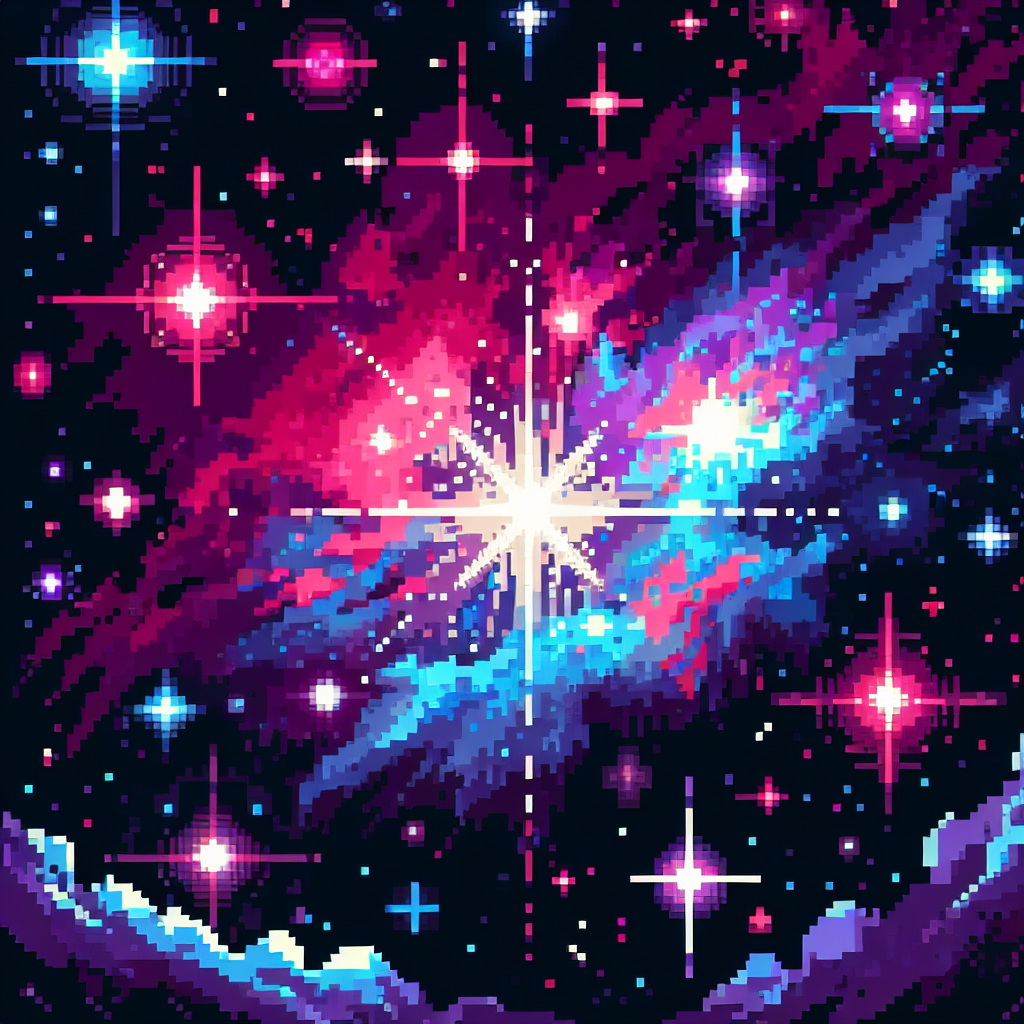
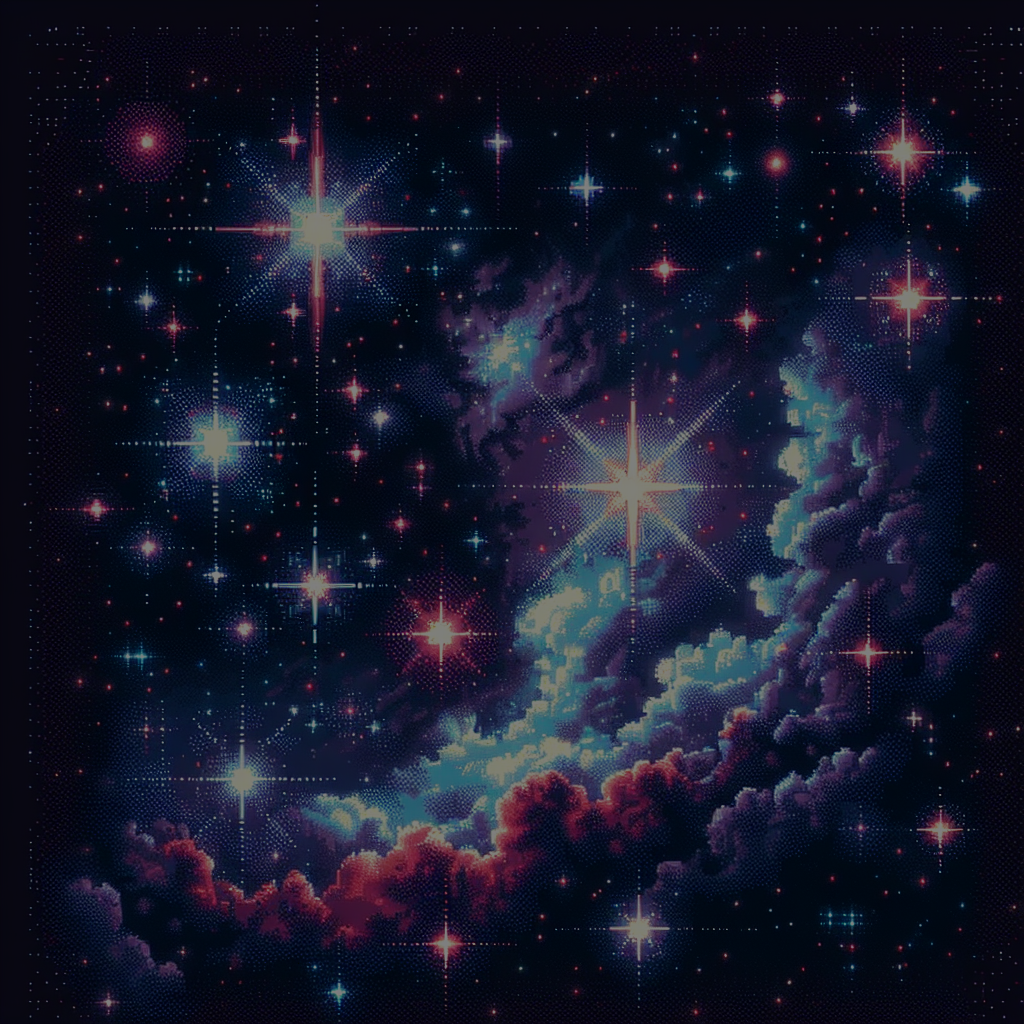
home page + fixed background

diff --git a/classes/tiles.py b/classes/tiles.py
@@ -1,25 +1,30 @@
 import pygame
-
+import environment.get_environments 
 class Tiles:
     def __init__(self, width, height):
         print(width, height)
         # Load 9 images (1024x1024 each) from file paths
-        image_paths = [f"background_{i}.png" for i in range(9)]
+        # image_paths = [environment.get_environments.get_background(i) for i in range(9)]
+        # image_paths = [f"background_{i}.png" for i in range(9)]
         
         # Convert image paths to pygame surfaces
-        images = [pygame.image.load(image_path) for image_path in image_paths]
+        # images = [pygame.image.load(image_path) for image_path in image_paths]
         
         # Check the sizes of the images to ensure they are 1024x1024
-        for i, img in enumerate(images):
-            if img.get_size() != (1024, 1024):
-                raise ValueError(f"Image {image_paths[i]} is not 1024x1024! Got {img.get_size()} instead.")
+        # for i, img in enumerate(images):
+        #     if img.get_size() != (1024, 1024):
+        #         raise ValueError(f"Image {image_paths[i]} is not 1024x1024! Got {img.get_size()} instead.")
         
         # Create a surface to combine the 9 images into a 3x3 grid (3072x3072 total)
         self.combined_image = pygame.Surface((1024 * 3, 1024 * 3))
 
         
         # Blit the 9 images into the combined image at their correct positions
-        for i, img in enumerate(images):
+        for i in range(9):
+            # img = environment.get_environments.get_background(i)
+            img = pygame.image.load(f"background_{i+1}.png")
+            # img = pygame.image.load(img) 
+
             row = i // 3  # Determine the row in the 3x3 grid
             col = i % 3   # Determine the column in the 3x3 grid
             print(f"Blitting image {i} at position {(col * 1024, row * 1024)}")  # Debug print for blit positions
@@ -55,3 +60,70 @@ class Tiles:
                 # Get the appropriate tile from the combined image
                 tile = self.get_tile(tile_row, tile_col)
                 screen.blit(tile, (col_idx * TILE_SIZE - offset_x, row_idx * TILE_SIZE - offset_y))
+
+# import pygame
+# import environment.get_environments 
+# import pygame
+# import environment.get_environments
+# import random  # Import random module to shuffle tiles
+
+# class Tiles:
+#     def __init__(self, width, height):
+#         print(width, height)
+#         # Load 9 images (1024x1024 each) from file paths
+#         # image_paths = [environment.get_environments.get_background(i) for i in range(9)]
+#         image_paths = [f"background_{i}.png" for i in range(9)]
+#         # Convert image paths to pygame surfaces
+#         images = [pygame.image.load(image_path) for image_path in image_paths]
+        
+#         # Check the sizes of the images to ensure they are 1024x1024
+#         for i, img in enumerate(images):
+#             if img.get_size() != (1024, 1024):
+#                 raise ValueError(f"Image {image_paths[i]} is not 1024x1024! Got {img.get_size()} instead.")
+        
+#         # Create a surface to combine the 9 images into a 3x3 grid (3072x3072 total)
+#         self.combined_image = pygame.Surface((1024 * 3, 1024 * 3))
+
+#         # Blit the 9 images into the combined image at their correct positions
+#         for i, img in enumerate(images):
+#             row = i // 3  # Determine the row in the 3x3 grid
+#             col = i % 3   # Determine the column in the 3x3 grid
+#             print(f"Blitting image {i} at position {(col * 1024, row * 1024)}")  # Debug print for blit positions
+#             self.combined_image.blit(img, (col * 1024, row * 1024))  # Blit image to its place in the 3x3 grid
+
+#         self.tile_width = 32
+#         self.tiles_per_image_row = (1024 * 3) // self.tile_width  # Number of tiles per row in the 3072x3072 image
+
+#         # Generate a list of tile IDs and shuffle them to randomize the order
+#         tile_ids = list(range(self.tiles_per_image_row * (height // self.tile_width)))
+#         random.shuffle(tile_ids)  # Shuffle tile IDs to randomize the order
+
+#         # Create the tilemap by filling it with randomized tile IDs
+#         self.tilemap = []
+#         tile_id_index = 0
+#         for row in range(height // self.tile_width):
+#             self.tilemap.append([])
+#             for col in range(width // self.tile_width):
+#                 self.tilemap[row].append(tile_ids[tile_id_index])
+#                 tile_id_index += 1
+
+#         pygame.image.save(self.combined_image, "combined_image_debug.png")
+
+#     def get_tile(self, row, col):
+#         TILE_SIZE = self.tile_width
+#         tile = pygame.Surface((TILE_SIZE, TILE_SIZE))
+#         tile.blit(self.combined_image, (0, 0), (col * TILE_SIZE, row * TILE_SIZE, TILE_SIZE, TILE_SIZE))
+#         return tile
+
+#     def draw_tiles(self, screen, offset_x, offset_y):
+#         TILE_SIZE = self.tile_width
+#         for row_idx, row in enumerate(self.tilemap):
+#             for col_idx, tile_id in enumerate(row):
+#                 # Determine the tile position within the combined image
+#                 tile_row = tile_id // self.tiles_per_image_row
+#                 tile_col = tile_id % self.tiles_per_image_row
+                
+#                 # Get the appropriate tile from the combined image
+#                 tile = self.get_tile(tile_row, tile_col)
+#                 screen.blit(tile, (col_idx * TILE_SIZE - offset_x, row_idx * TILE_SIZE - offset_y))
+

diff --git a/main.py b/main.py
@@ -14,6 +14,44 @@ from classes.inventory import Inventory
 from classes.items import Shard
 from classes.crafter import Crafter
 from classes.planet import * 
+
+def home_screen():
+    # Load title font and button font
+    title_font = pygame.font.Font(None, 100)
+    button_font = pygame.font.Font(None, 50)
+    
+    # Create text surfaces
+    title_text = title_font.render("Wizard Game", True, (255, 255, 255))
+    start_text = button_font.render("Start Game", True, (255, 255, 255))
+    exit_text = button_font.render("Exit", True, (255, 255, 255))
+    
+    # Define button rectangles
+    start_button = start_text.get_rect(center=(WIDTH // 2, HEIGHT // 2 - 50))
+    exit_button = exit_text.get_rect(center=(WIDTH // 2, HEIGHT // 2 + 50))
+    
+    # Home screen loop
+    while True:
+        screen.fill((0, 0, 0))  # Clear the screen with black
+        
+        # Draw title and buttons
+        screen.blit(title_text, (WIDTH // 2 - title_text.get_width() // 2, 100))
+        screen.blit(start_text, start_button.topleft)  # Correctly position the button
+        screen.blit(exit_text, exit_button.topleft)  # Correctly position the button
+        
+        pygame.display.flip()  # Update the display
+        
+        for event in pygame.event.get():
+            if event.type == pygame.QUIT:
+                pygame.quit()
+                sys.exit()
+                
+            elif event.type == pygame.MOUSEBUTTONDOWN:
+                mouse_pos = event.pos
+                if start_button.collidepoint(mouse_pos):
+                    return  # Start the game
+                elif exit_button.collidepoint(mouse_pos):
+                    pygame.quit()
+                    sys.exit()  # Exit the game
 # Initialize Pygame
 pygame.init()
 
@@ -22,7 +60,9 @@ WIDTH, HEIGHT = 32*32, 32*32
 screen = pygame.display.set_mode((WIDTH, HEIGHT))
 pygame.display.set_caption("Wizard")
 
-wizard = Wizard(WIDTH, HEIGHT)
+home_screen()
+
+wizard = Wizard(WIDTH + 32 * 32, HEIGHT + 32 * 32)
 
 crafter = Crafter()
 crafter_group.add(crafter)
@@ -167,3 +207,4 @@ while running:
     pygame.display.flip()
 
 pygame.quit()
+

diff --git a/environment/get_environments.py b/environment/get_environments.py
@@ -23,7 +23,7 @@ def darken_image(image_path):
 
 
 def get_background(idx):
-    prompt = "Generate a pixel art image of a colorful galaxy in deep space. The image should feature glowing stars, some with bright flares, scattered across the dark night sky. Include hues of blue, purple, red, and pink for stars and cosmic clouds, with a focus on a central bright star radiating light. The stars and nebulae should be depicted using small square pixels to mimic the classic pixel art style, creating a vibrant, otherworldly, retro visual."
+    prompt = "Generate a pixel art image of deep space. The image should feature glowing stars, some with bright flares, scattered across the dark night sky. Include hues of blue, purple, red, and pink for stars and cosmic clouds. The stars and nebulae should be depicted using small square pixels to mimic the classic pixel art style, creating a vibrant, otherworldly, retro visual."
     images = environment.dalle.query_dalle(prompt, image_size="1024x1024", n=1) 
     print(images)
 
@@ -31,6 +31,7 @@ def get_background(idx):
     environment.dalle.download_image(images[0], f"background_{idx+1}.png")
 
     darken_image(f"background_0.png")
+    darken_image(f"background_{idx+1}.png")
     return 'background_0.png' 
 
 

diff --git a/environment/dalle.py b/environment/dalle.py
@@ -20,7 +20,7 @@ def query_dalle(prompt, image_size="1024x1024", n=1):
             size=image_size  # Image size, e.g., "1024x1024")
         )
 
-        print(response)
+        # print(response)
         # Extract the image URL(s)
         image_urls = [img.url for img in response.data]
         return image_urls
